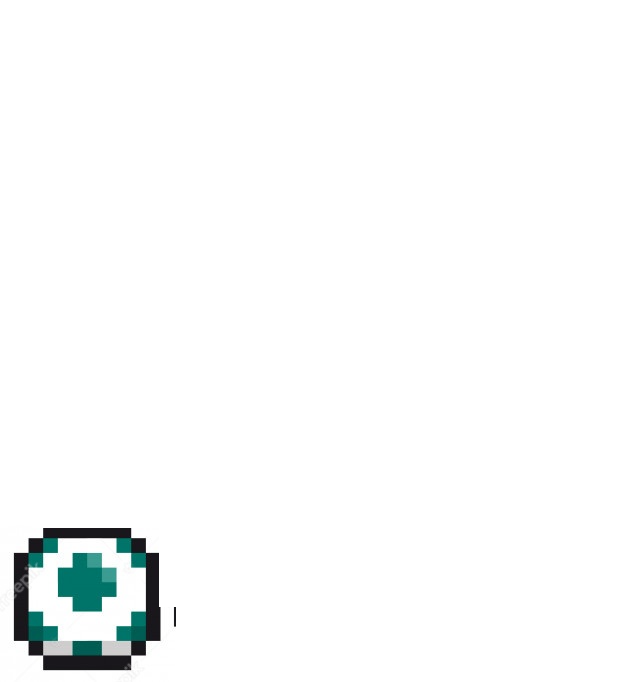
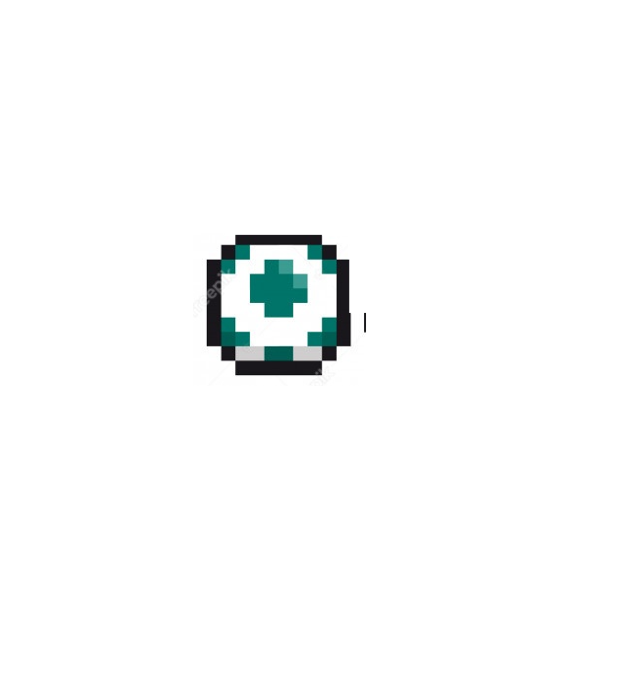
the player can now get the ball and score/added a goal tracker/random location for ball spawn /when the player scores the ball randomly resets

Changed region(s): [[0.0, 0.7698, 0.2732, 0.9853], [0.3035, 0.3387, 0.5767, 0.5543]]

diff --git a/game.py b/game.py
@@ -1,35 +1,48 @@
 import pygame
 import os
+import random
 
 pygame.init()
 width, height = 900, 550
 win= pygame.display.set_mode((width,height))
 green=(0,230,50)
 white=(255,255,255)
+transparent=(0,0,0,0)
 Soccer_Player=pygame.image.load(os.path.join('Assets','soccer-player.png'))
 Ball_Image=pygame.image.load(os.path.join('Assets','ball.png'))
-Resize_Ball=pygame.transform.scale(Ball_Image,(40,50))
+Player_Ball=pygame.image.load(os.path.join('Assets','soccer-player-and-ball.png'))
+Resize_Ball=pygame.transform.scale(Ball_Image,(60,70))
 Resize_SoccerPlayer= pygame.transform.scale(Soccer_Player,(40,50))
+Resize_Player_Ball=pygame.transform.scale(Player_Ball,(40,50))
 fps=60
 move_speed=5
-Top_Horiz_Outline=pygame.Rect(0,10,width,10)
+Top_Horiz_Outline=pygame.Rect(40,10,width,10)
 R_Vert_Outline=pygame.Rect(width-10,10,10,height-15)
-Bot_Horiz_Outline=pygame.Rect(0,height-15,width,10)
+Bot_Horiz_Outline=pygame.Rect(40,height-15,width,10)
+Goalline=pygame.Rect(40,10,10,height-15)
+Bot_Goalline=pygame.Rect(0,(height/2)+60,40,10)
+Top_Goalline=pygame.Rect(0,(height/2)-70,40,10)
 clock=pygame.time.Clock()
 
 
 
 
-def d_win(player,shown_time):
+def d_win(player,shown_time, Player_Model,Has_Ball,ball_x,ball_y,goals):
 	font=pygame.font.Font('freesansbold.ttf', 64)
-	text=font.render(str(shown_time/1000), True, green, white)
+	sfont=pygame.font.Font('freesansbold.ttf', 30)
+	timer_text=font.render(str(shown_time/1000), True, green, white)
+	goal_text=sfont.render("Goals: "+str(goals),True,green,white)
 	win.fill(green)
-	win.blit(text,(width/2,100))
+	win.blit(timer_text,((width/2)-50,50))
+	win.blit(goal_text,((width/2)+300,30))
 	pygame.draw.rect(win,white,Top_Horiz_Outline)
 	pygame.draw.rect(win,white,R_Vert_Outline)
 	pygame.draw.rect(win,white,Bot_Horiz_Outline)
 	pygame.draw.circle(win,white,(width,height/2),25)
 	pygame.draw.circle(win,white,(width,height/2),150,15)
+	pygame.draw.rect(win,white,Goalline)
+	pygame.draw.rect(win,white,Bot_Goalline)
+	pygame.draw.rect(win,white,Top_Goalline)
 	if player.x<0:
 		player.x=0
 	if player.x>width-40:
@@ -38,8 +51,9 @@ def d_win(player,shown_time):
 		player.y=0
 	if player.y>height-50:
 		player.y=height-50
-	win.blit(Resize_SoccerPlayer,(player.x,player.y))
-	win.blit(Resize_Ball,(300,400))
+	win.blit(Player_Model,(player.x,player.y))
+	if Has_Ball==False:
+		win.blit(Resize_Ball,(ball_x,ball_y))
 	pygame.display.update()
 	
 def main():
@@ -47,6 +61,12 @@ def main():
 	Move_Start_Time=0
 	ctime=0
 	run= True
+	Player_Model=Resize_SoccerPlayer
+	Has_Ball=False
+	ball_x=random.randint(40,width-40)
+	ball_y=random.randint(10,height-50)
+	print(ball_x,ball_y)
+	goals=0
 	while run:
 		shown_time=30000
 		clock.tick(fps)
@@ -66,8 +86,20 @@ def main():
 			player.y-=move_speed
 		if keys[pygame.K_s]: #moving down
 			player.y+=move_speed
-		if keys[pygame.K_f]  and (player.x>300-50 and player.x<300+50) and (player.y<400+50 and player.y>400-50):
-			print('yes')
+		if keys[pygame.K_f]:   
+			if (player.x>ball_x-30 and player.x<ball_x+30) and (player.y<ball_y+30 and player.y>ball_y-30) and Has_Ball==False:
+				print('yes')
+				Player_Model=Resize_Player_Ball
+				Has_Ball=True
+			if (player.x>-5 and player.x<42) and (player.y>(height/2)-105 and player.y<(height/2)+50) and Has_Ball==True:
+				print("goal")
+				Player_Model=Resize_SoccerPlayer
+				Has_Ball=False
+				ball_x=random.randint(40,width-40)
+				ball_y=random.randint(10,height-50)
+				print(ball_x,ball_y)
+				goals+=1
+
 		if Move_Start_Time!=0:
 			ctime=pygame.time.get_ticks() #gets the running time from when the player started moving
 			if shown_time-(ctime- Move_Start_Time) <= 0:
@@ -81,7 +113,7 @@ def main():
 
 
 		
-		d_win(player,shown_time)
+		d_win(player,shown_time, Player_Model,Has_Ball,ball_x,ball_y,goals)
 	
 	
 	
